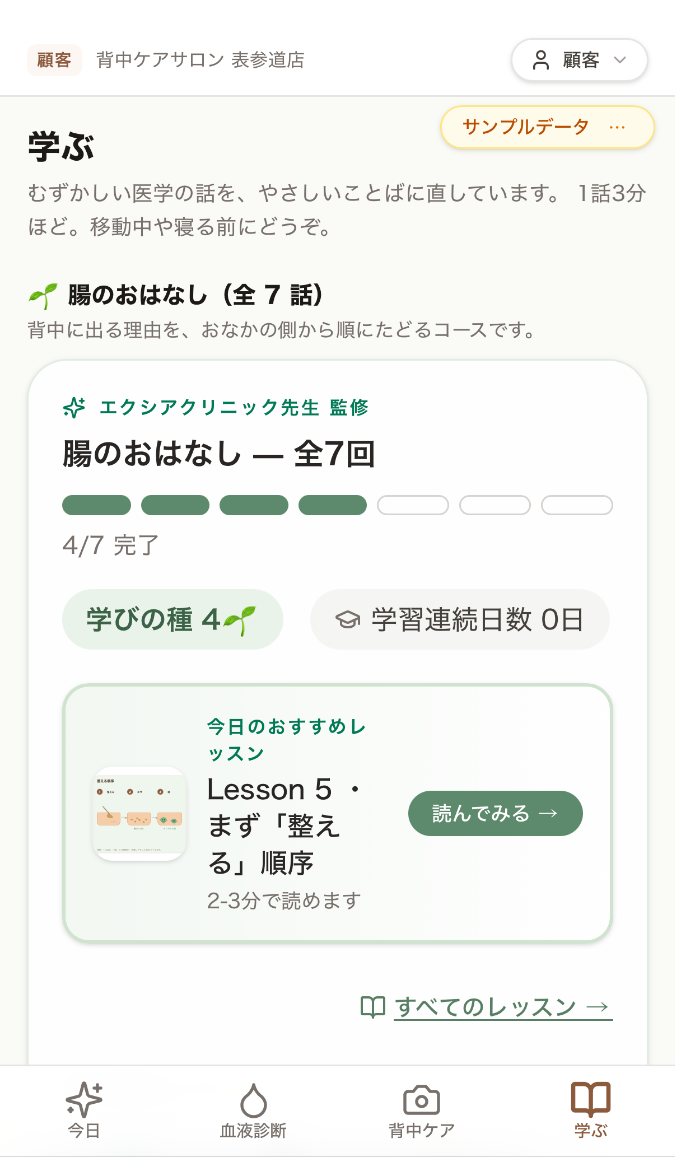
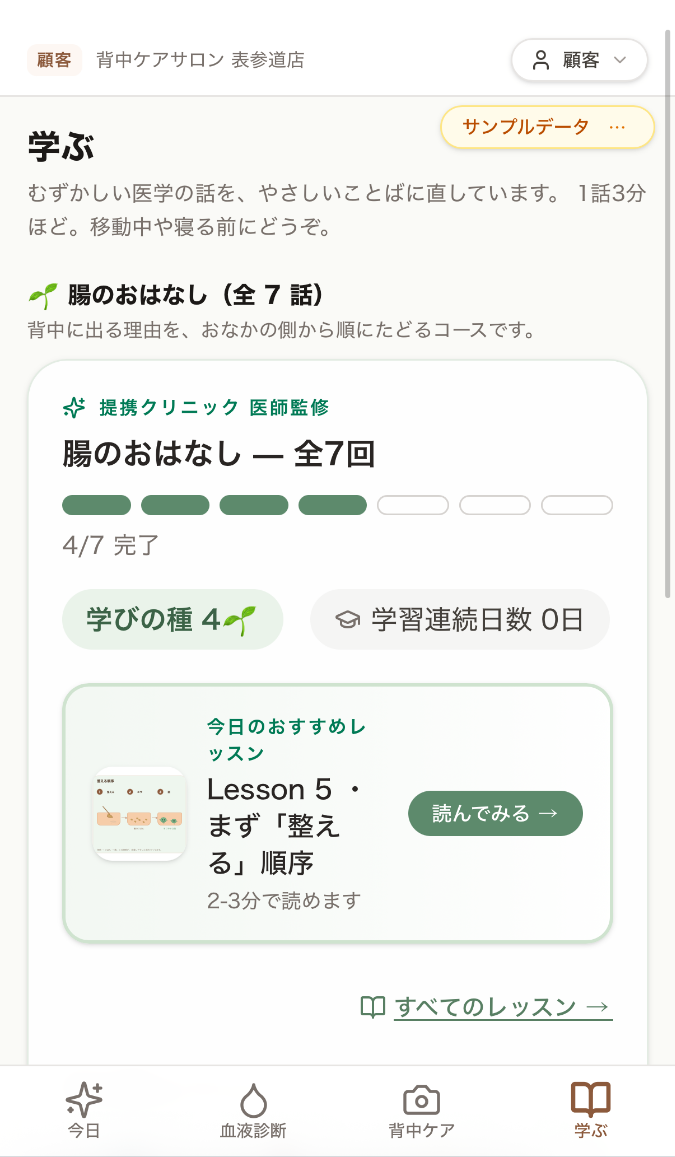
「学ぶ」画面のスクリーンショットを差し替え
- 監修表示が実在のクリニック名から「提携クリニック 医師監修」に変わったものへ更新
- alt テキストも合わせて修正

Claude-Session: https://claude.ai/code/session_01H3zwppJUZ3aJKCUbsBotgq

Changed region(s): [[0.9644, 0.0311, 0.9956, 0.529], [0.1556, 0.3423, 0.56, 0.3734]]

diff --git a/business.html b/business.html
@@ -763,7 +763,7 @@ footer .fn{font-family:var(--jp);font-size:11px;color:var(--ink-mute);line-heigh
         <figcaption>施術の記録<span>はじめた日と、いまを並べる</span></figcaption>
       </figure>
       <figure class="shot">
-        <img src="/app/app-learn.png" alt="アプリの「学ぶ」画面。医学の話をやさしいことばに直した1話3分のレッスン。全7話のうち4話完了の進捗表示。" loading="lazy" width="675" height="1156">
+        <img src="/app/app-learn.png" alt="アプリの「学ぶ」画面。医学の話をやさしいことばに直した1話3分のレッスン。提携クリニックの医師監修。全7話のうち4話完了の進捗表示。" loading="lazy" width="675" height="1157">
         <figcaption>学ぶ<span>1話3分。理解が、納得に変わる</span></figcaption>
       </figure>
     </div>
